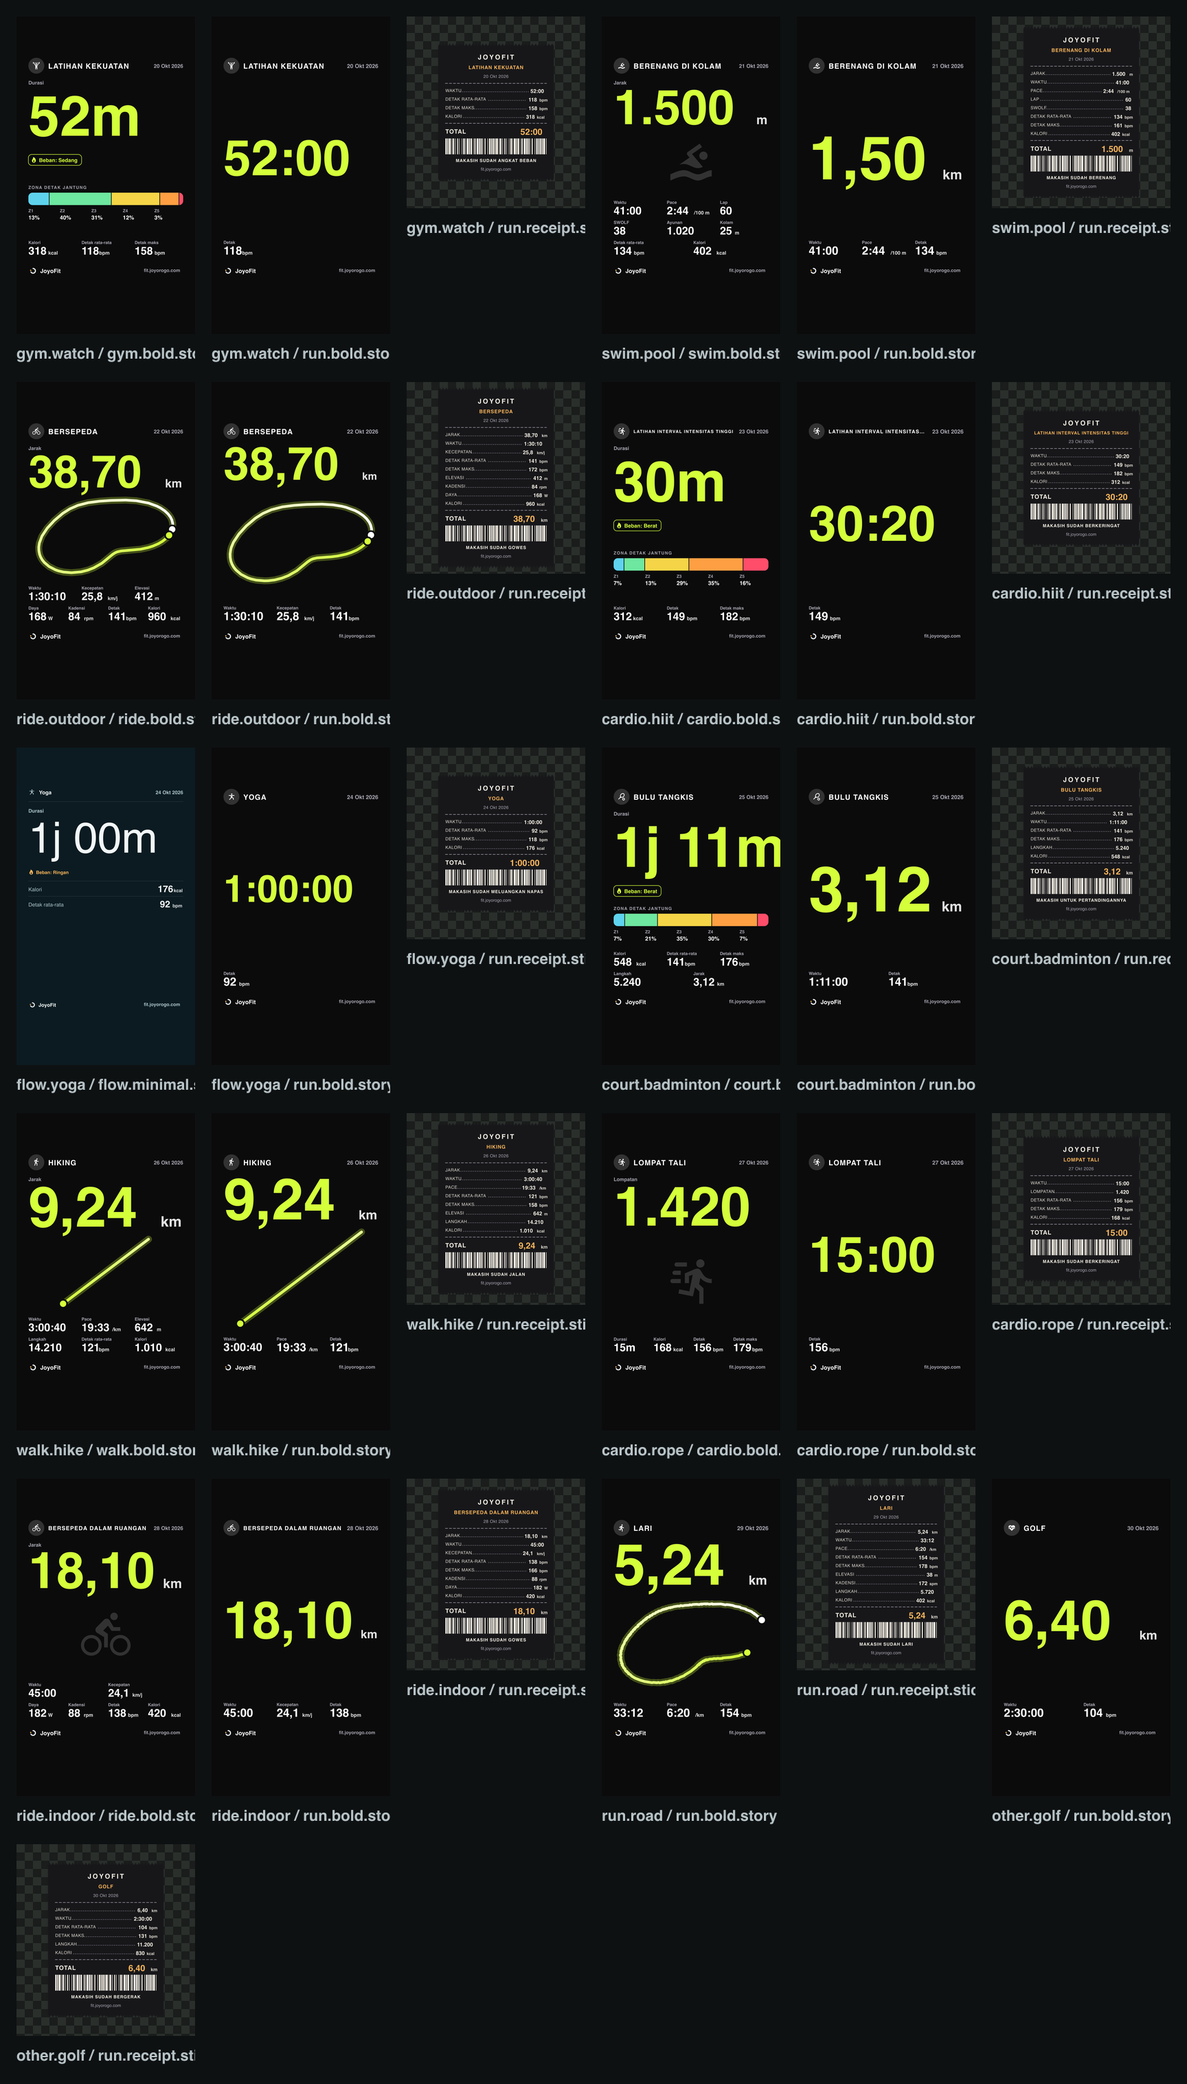
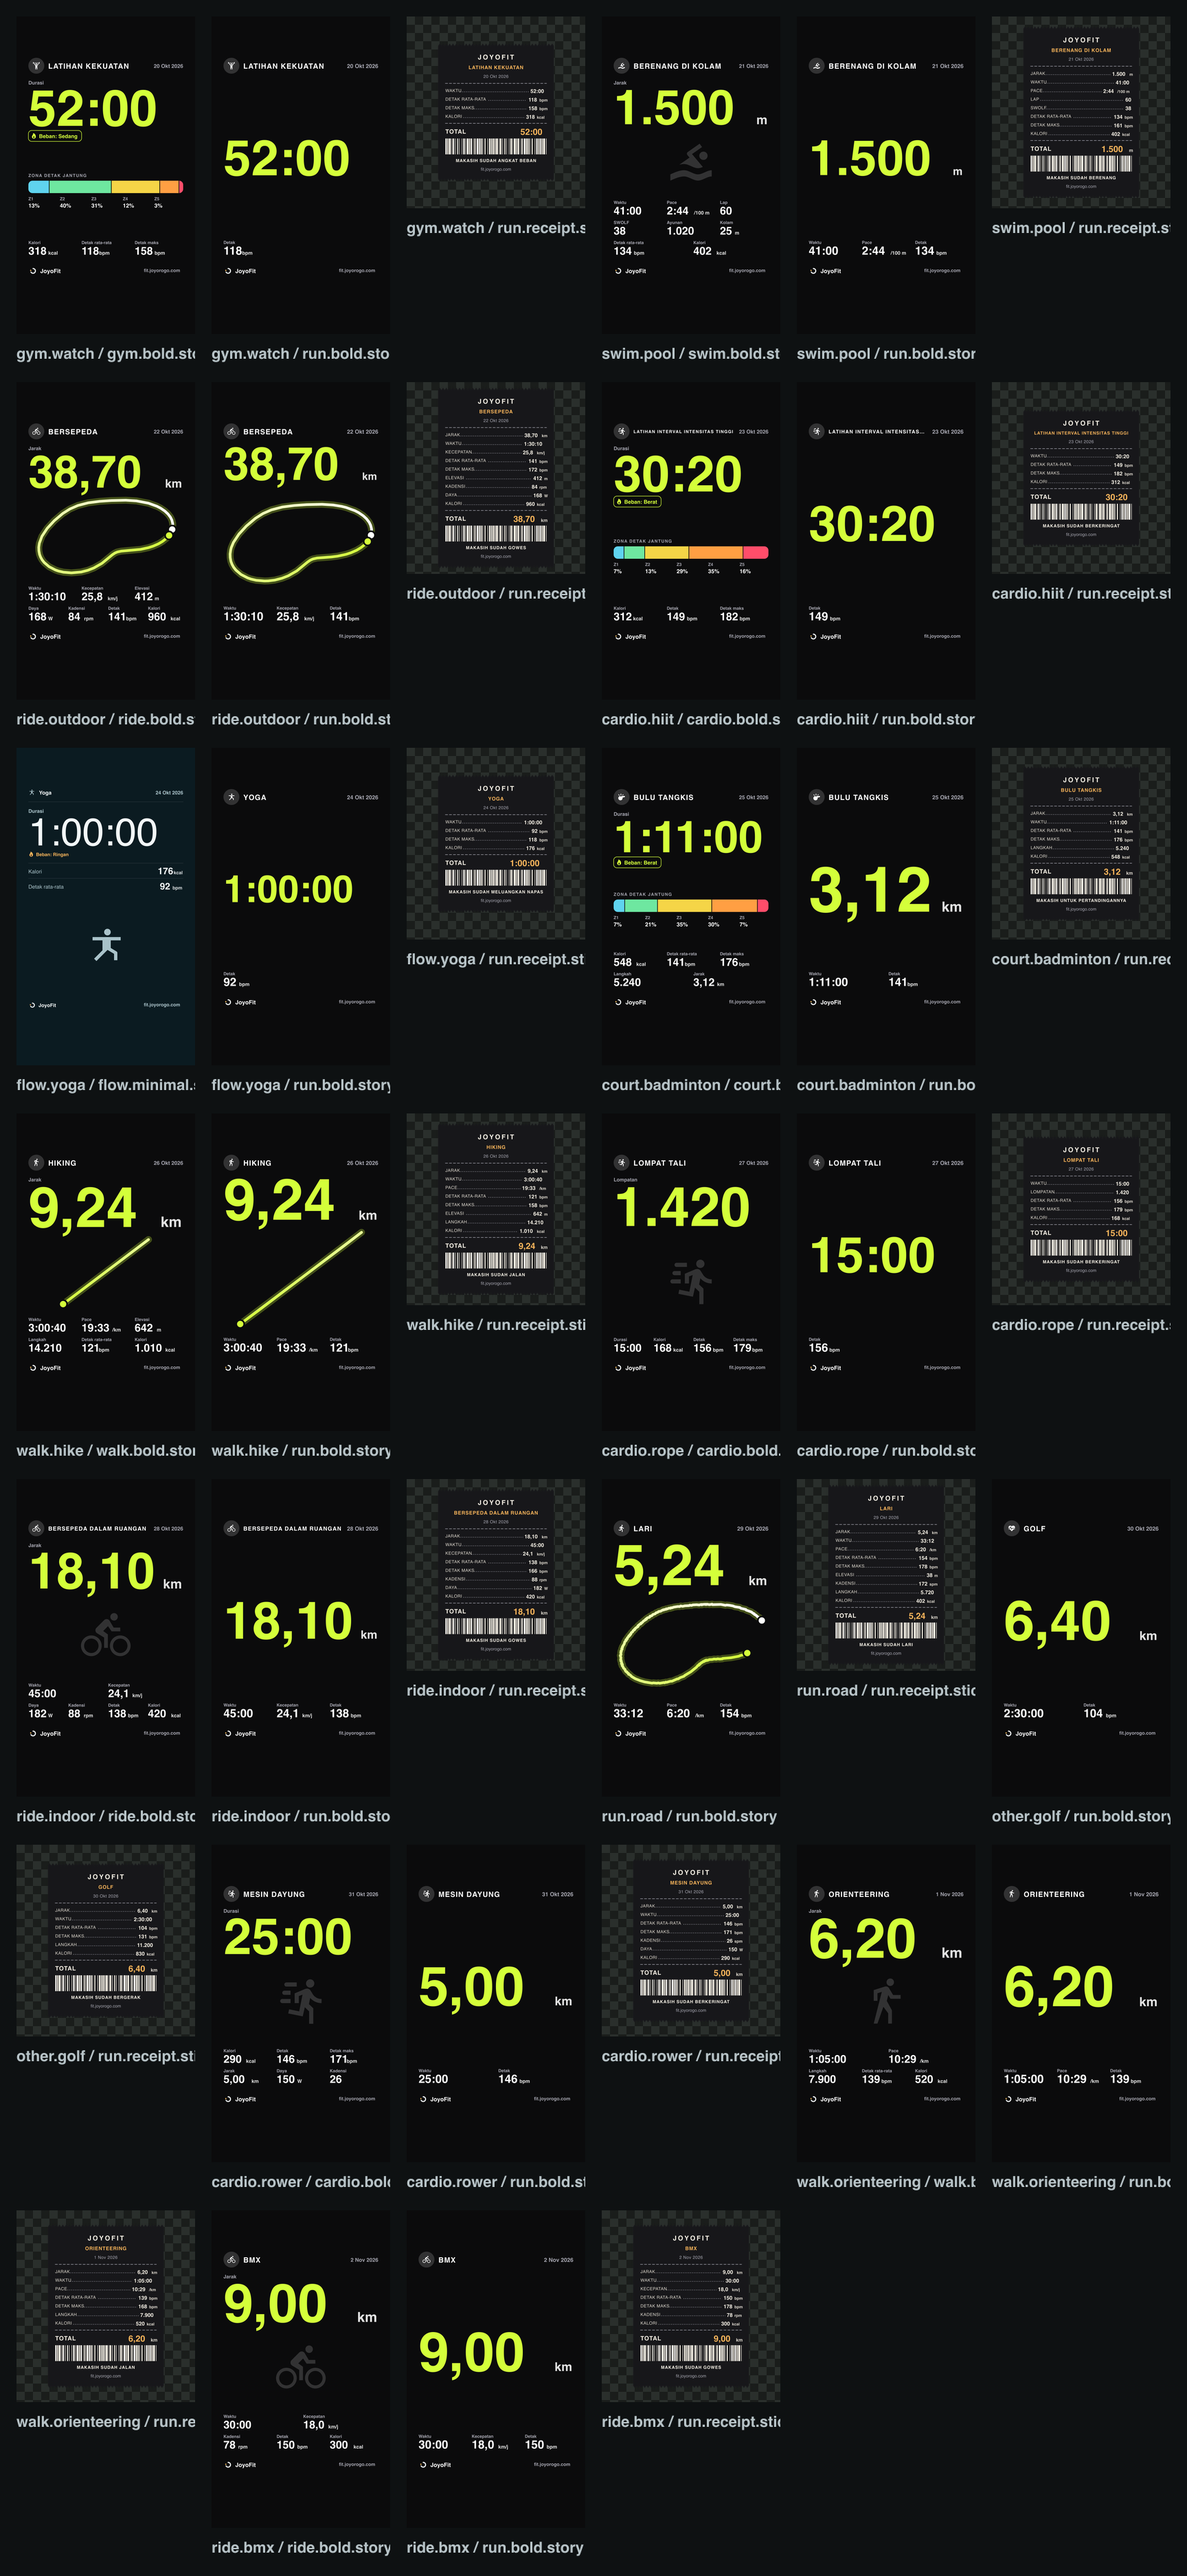
Threads slides read a swim in metres; the sport glyph follows the family before the sport kind (BMX, orienteering); audit-after re-rendered

diff --git a/src/features/stickers/templates/threads.ts b/src/features/stickers/templates/threads.ts
@@ -179,7 +179,8 @@ function summary() {
     k.group(
       { w: 'fill', h: 'auto' },
       [
-        k.stat({ w: 'fill' }, '{run.distanceM|km}', { unit: tl('unit.km'), label: tl('label.distance'), size, unitSize: Math.round(size * 0.24), labelSize: 28, labelPos: 'above', gap: 12, weight: 800, color: '$accent', minSize: 100, when: has('run.distanceM') }),
+        k.stat({ w: 'fill' }, '{run.distanceM|km}', { unit: tl('unit.km'), label: tl('label.distance'), size, unitSize: Math.round(size * 0.24), labelSize: 28, labelPos: 'above', gap: 12, weight: 800, color: '$accent', minSize: 100, when: all(has('run.distanceM'), not(is('run.category', 'swim'))) }),
+        k.stat({ w: 'fill' }, '{run.distanceM|int}', { unit: tl('unit.m'), label: tl('label.distance'), size, unitSize: Math.round(size * 0.24), labelSize: 28, labelPos: 'above', gap: 12, weight: 800, color: '$accent', minSize: 100, when: all(has('run.distanceM'), is('run.category', 'swim')) }),
         k.stat({ w: 'fill' }, '{run.movingSec|dur}', { label: tl('label.time'), size, labelSize: 28, labelPos: 'above', gap: 12, weight: 800, color: '$accent', minSize: 100, when: lacks('run.distanceM') }),
       ],
       { dir: 'column', when },
@@ -313,7 +314,8 @@ function splitsPage(id: 'splits' | 'splits2' | 'splits3', path: string) {
   const table = k.group({ w: 'fill', h: 'auto' }, [header, ...rows], { dir: 'column', gap: 4, align: 'stretch' });
   const step = k.text({ w: 'fill' }, tl('threads.text.splitStep', { km: '{th.splitStep}' }), { size: 28, weight: 600, color: '$fgMuted', when: { bind: 'th.splitStep', gt: 1 } });
   const recap = tileRow(k, [
-    { value: '{run.distanceM|km}', label: tl('label.distance'), unit: tl('unit.km') },
+    { value: '{run.distanceM|km}', label: tl('label.distance'), unit: tl('unit.km'), when: all(has('run.distanceM'), not(is('run.category', 'swim'))) },
+    { value: '{run.distanceM|int}', label: tl('label.distance'), unit: tl('unit.m'), when: all(has('run.distanceM'), is('run.category', 'swim')) },
     { value: '{run.movingSec|dur}', label: tl('label.time') },
     { value: '{run.paceSecKm|pace}', label: tl('label.pace'), unit: tl('unit.perKm') },
     { value: '{run.speedKmh|num:1}', label: tl('label.speed'), unit: tl('unit.kmh') },
@@ -352,7 +354,8 @@ function chartPanel(k: Kit, p: PanelSpec): LayerJson {
         [
           k.text({ w: 'auto' }, tl('threads.text.axisStart'), { size: 24, weight: 600, color: '$fgMuted' }),
           k.shape({ w: 'fill', h: 1 }, 'rect'),
-          k.text({ w: 'auto' }, '{run.distanceM|km:1} km', { size: 24, weight: 600, color: '$fgMuted', when: has('run.distanceM') }),
+          k.text({ w: 'auto' }, '{run.distanceM|km:1} km', { size: 24, weight: 600, color: '$fgMuted', when: all(has('run.distanceM'), not(is('run.category', 'swim'))) }),
+          k.text({ w: 'auto' }, '{run.distanceM|int} m', { size: 24, weight: 600, color: '$fgMuted', when: all(has('run.distanceM'), is('run.category', 'swim')) }),
           k.text({ w: 'auto' }, '{run.movingSec|dur}', { size: 24, weight: 600, color: '$fgMuted', when: lacks('run.distanceM') }),
         ],
         { dir: 'row', gap: 8, align: 'center' },

diff --git a/src/features/stickers/data/sportMetrics.test.ts b/src/features/stickers/data/sportMetrics.test.ts
@@ -12,6 +12,7 @@ import { sportWorkout } from '../testing/sportWorkouts';
 import type { JsonObject } from '../subject';
 import { buildRunSubject } from './run';
 import { DEFAULT_GROUP, METRIC_FIELDS, SPORT_METRICS } from './sportMetrics';
+import { slideData } from './threads';
 
 beforeAll(() => applyLocale('id'));
 afterAll(() => applyLocale('id'));
@@ -200,6 +201,14 @@ describe('sport families: what the share sheet offers', () => {
     const shown = everyCardText('swim.pool');
     expect(shown).not.toContain('km');
     expect(shown).toContain('1.500');
+  });
+
+  test('the Threads summary slide reads a swim in metres', () => {
+    const { subject } = subjectOf('swim.pool');
+    const summary = TEMPLATES.find((t) => t.id === 'threads.summary.portrait')!;
+    const shown = texts(renderTemplate(summary, slideData(subject, { n: 1, total: 1 }), { locale: 'id', mode: 'dark', date: subject.date }).scene.nodes);
+    expect(shown).toContain('1.500');
+    expect(shown).not.toContain('km');
   });
 
   test('durations read as a clock, never as "52m" (metres)', () => {

diff --git a/src/features/stickers/templates/blocks.ts b/src/features/stickers/templates/blocks.ts
@@ -38,8 +38,11 @@ export function sportGlyph(k: Kit, x: number, y: number, size: number, color: st
     ['ride', 'bike'],
     ['swim', 'swim'],
   ];
-  const layers = kinds.map(([kind, icon]) => k.icon({ x, y, w: size, h: size }, icon, color, { when: all(plain, is(bind, kind)) }));
-  layers.push(k.icon({ x, y, w: size, h: size }, 'fitness', color, { when: all(plain, not({ bind, in: kinds.map(([kind]) => kind) })) }));
+  // The family wins over the sport kind: BMX is a ride and orienteering a walk although their sport kind reads `other`.
+  const named = kinds.map(([kind]) => kind);
+  const kindOnly = not({ bind: family, in: named });
+  const layers = kinds.map(([kind, icon]) => k.icon({ x, y, w: size, h: size }, icon, color, { when: all(plain, any(is(family, kind), all(kindOnly, is(bind, kind)))) }));
+  layers.push(k.icon({ x, y, w: size, h: size }, 'fitness', color, { when: all(plain, kindOnly, not({ bind, in: named })) }));
   for (const [name, glyph] of FAMILY_ICONS) {
     const when = is(family, name);
     layers.push(
